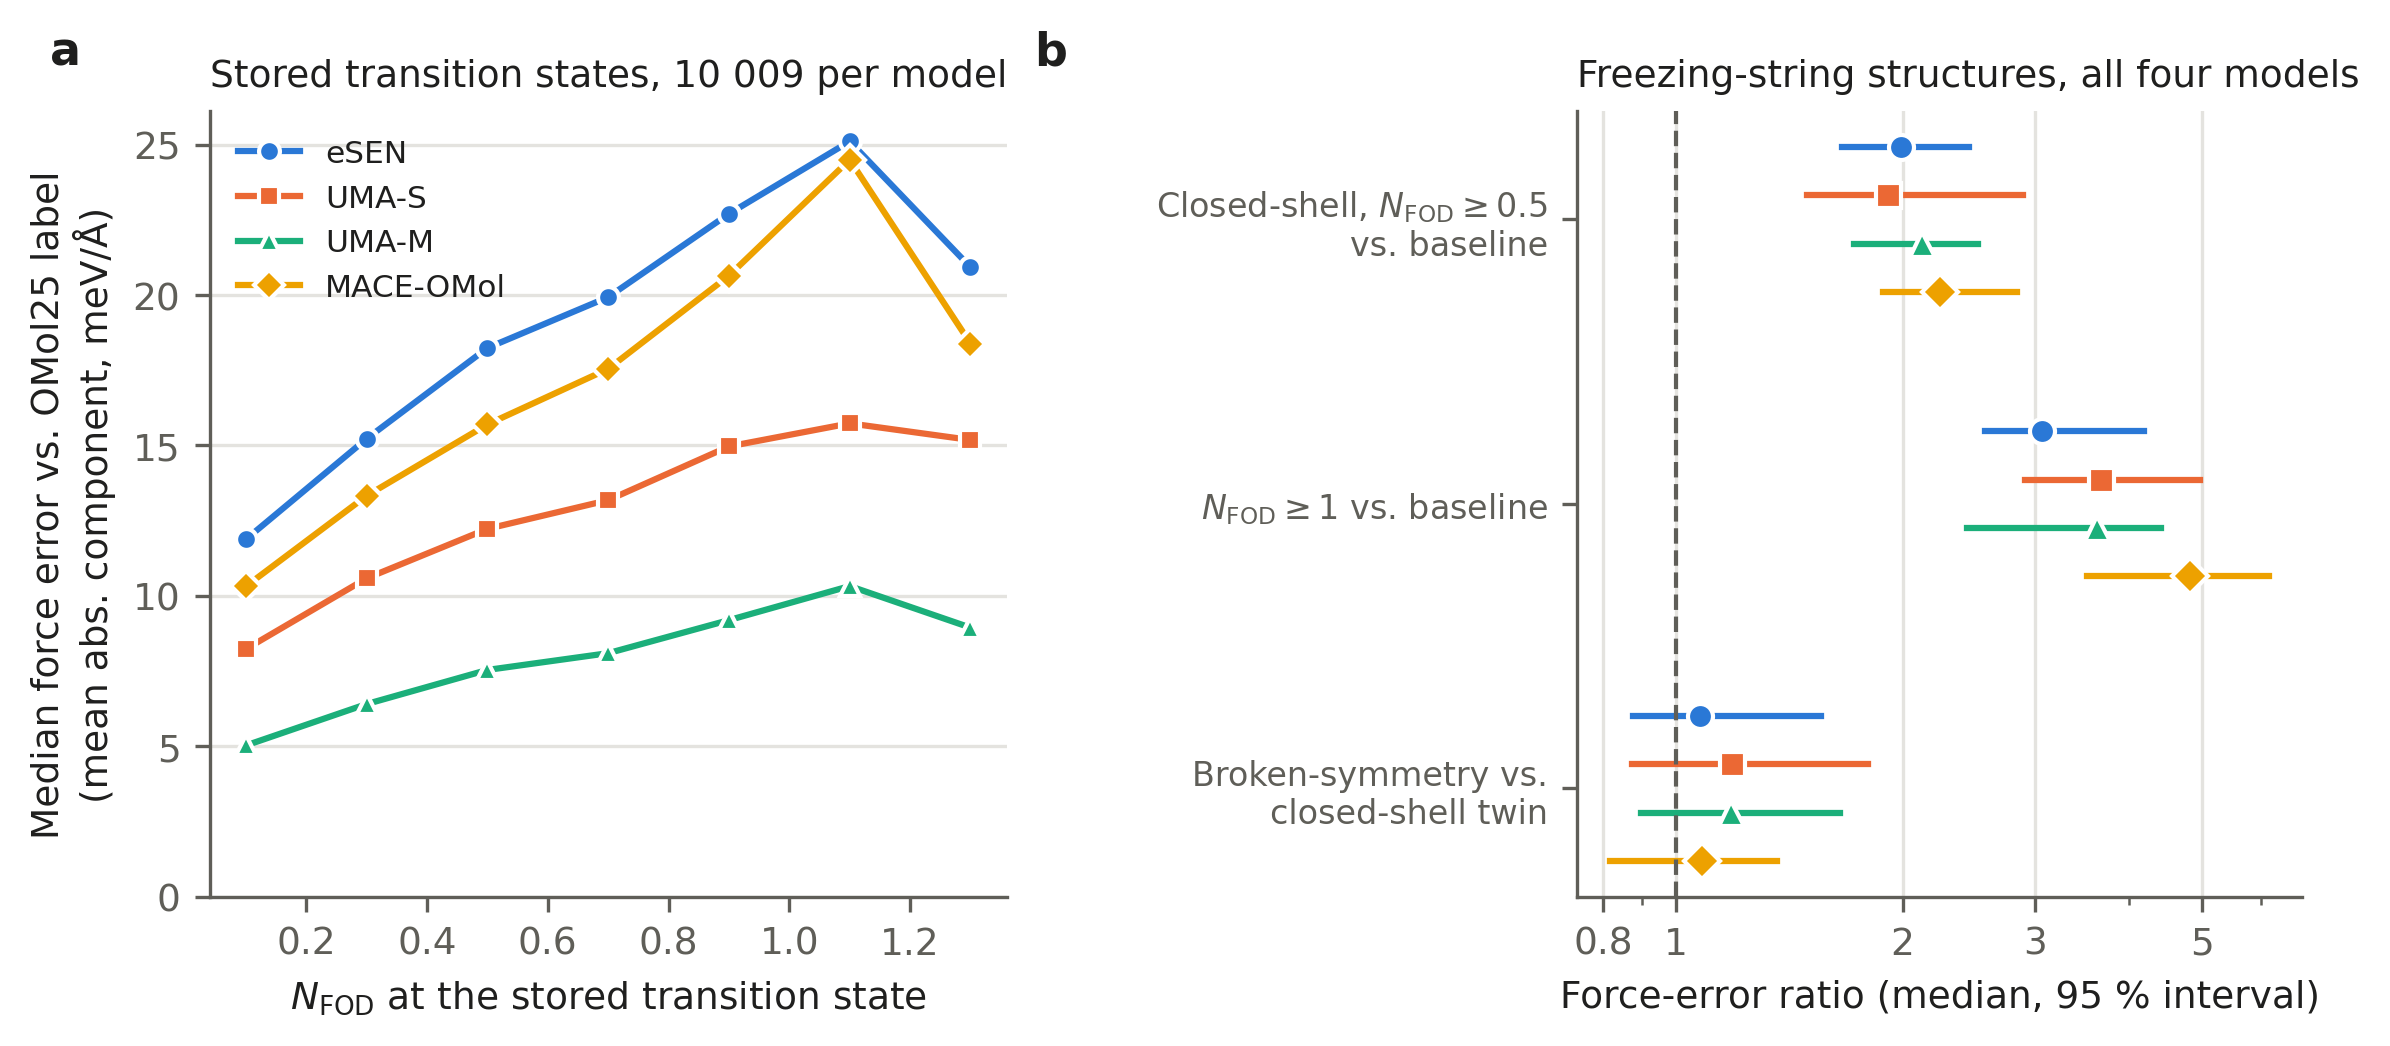
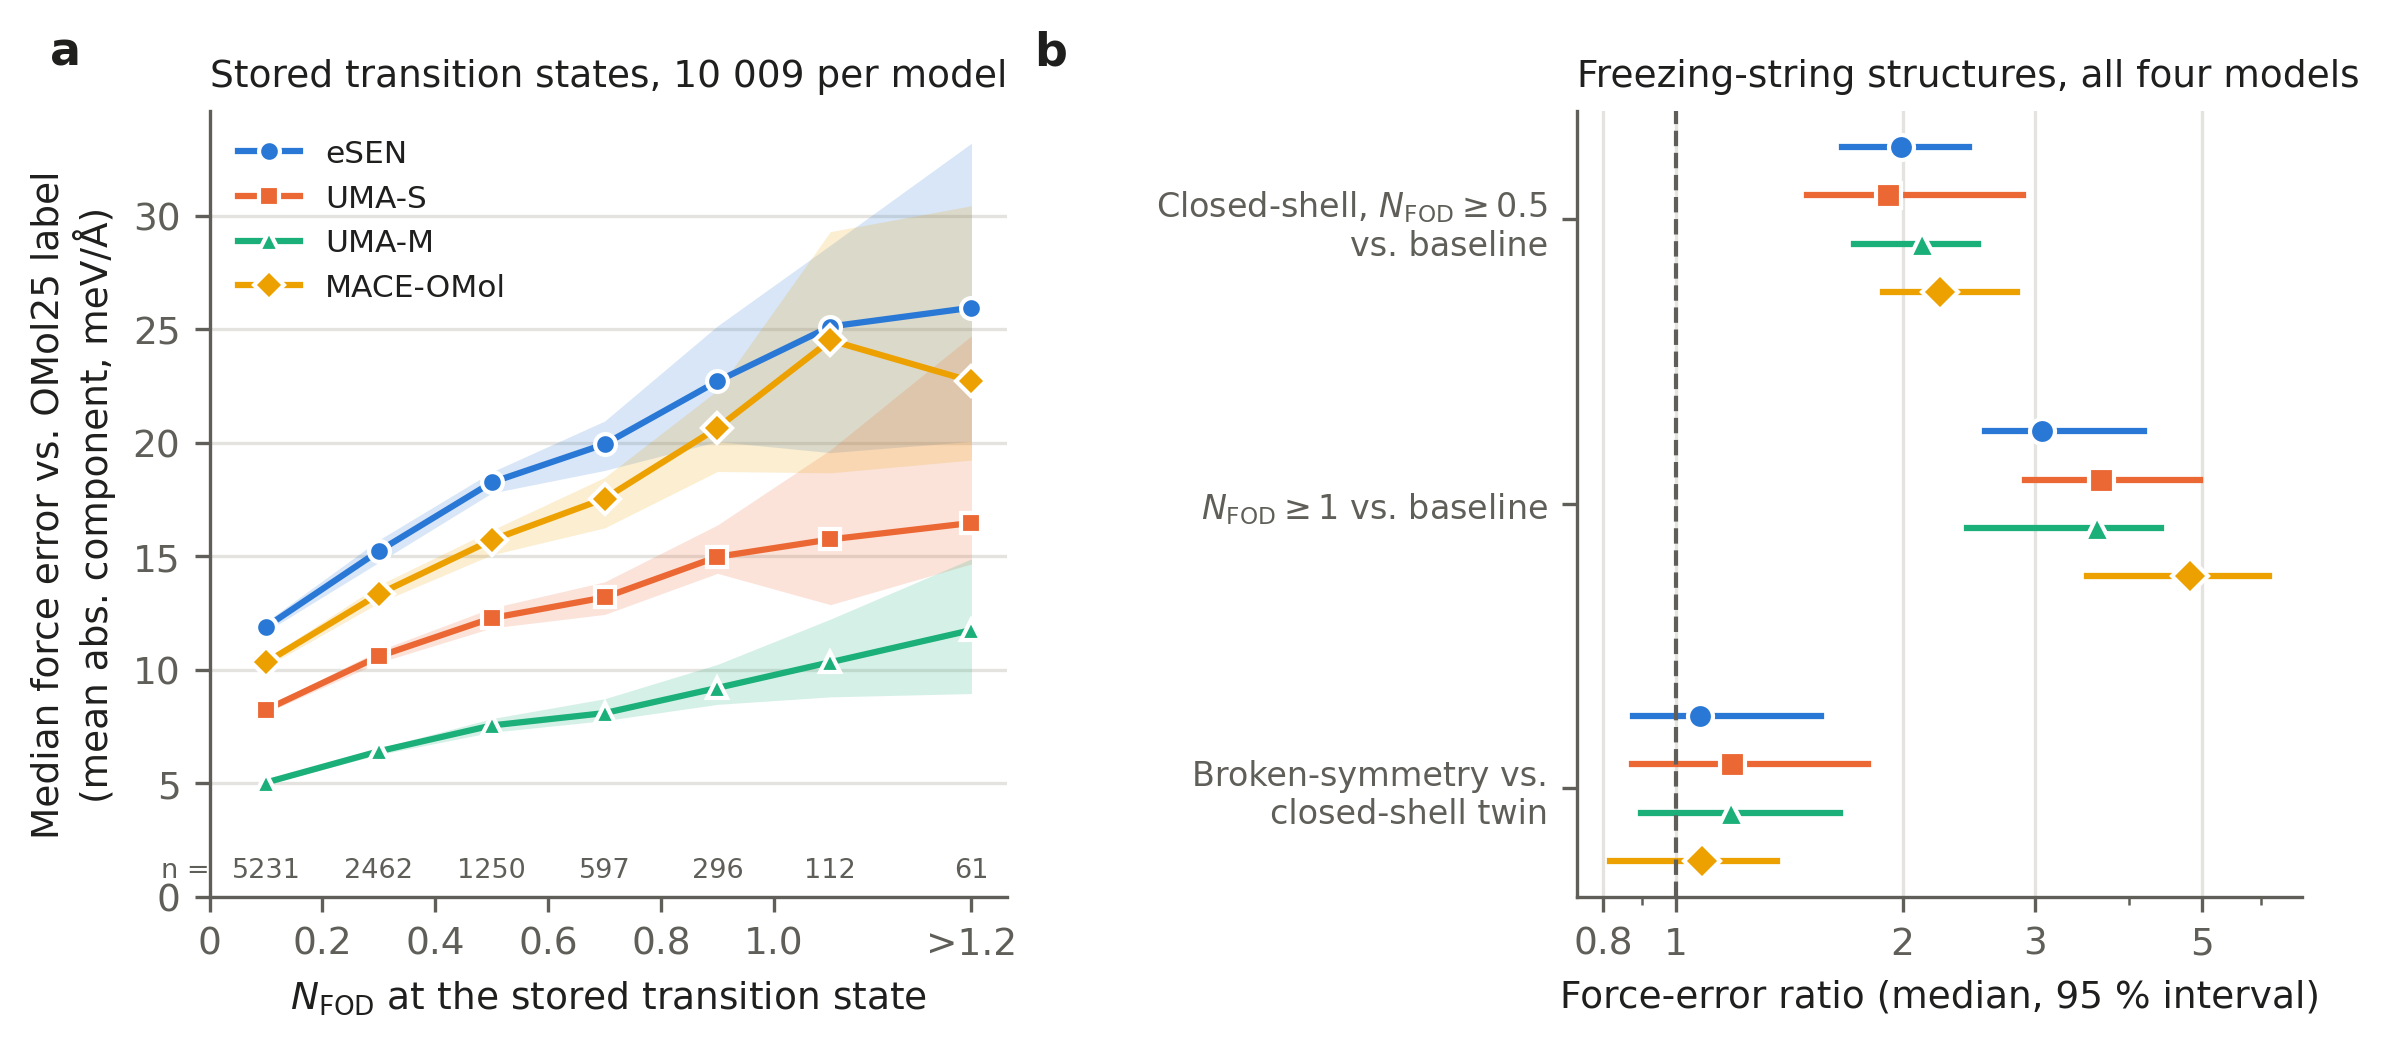
Figure 3a: top N_FOD bins merged above 1.2, 95 % bootstrap bands and counts per bin

diff --git a/pipeline/plot_paper_figs.py b/pipeline/plot_paper_figs.py
@@ -105,14 +105,28 @@ plt.close(fig)
 sp = list(csv.DictReader(open(f'{RES}/model_sp_ts_all.csv')))
 fig, (a1, a2) = plt.subplots(1, 2, figsize=(9, 3.4), gridspec_kw=dict(width_ratios=(1.1, 1), wspace=0.75))
 style(a1)
-edges = np.arange(0, 1.61, 0.2)
-mid = 0.5 * (edges[1:] + edges[:-1])
+# bins of 0.2 up to 1.2, everything above merged (the bins above 1.2 hold about 30 reactions each);
+# shaded band: 95 % bootstrap interval of the median, 2000 resamples per bin
+edges = np.array([0, 0.2, 0.4, 0.6, 0.8, 1.0, 1.2, 9])
+mid = np.array([0.1, 0.3, 0.5, 0.7, 0.9, 1.1, 1.35])
+rng = np.random.default_rng(0)
 for m in MODELS:
     R = [(float(r['nfod']), float(r['f_mae'])) for r in sp if r['model'] == m and r['f_mae']]
     n, e = np.array(R).T
-    med = [np.median(e[(n >= lo) & (n < hi)]) if ((n >= lo) & (n < hi)).sum() >= 20 else np.nan
-           for lo, hi in zip(edges[:-1], edges[1:])]
-    a1.plot(mid, np.array(med) * 1e3, color=COLOR[m], lw=1.5, marker=MARK[m], ms=5, mec='white', mew=1, label=LABEL[m])
+    med, lo95, hi95, cnt = [], [], [], []
+    for lo, hi in zip(edges[:-1], edges[1:]):
+        v = e[(n >= lo) & (n < hi)] * 1e3
+        b = np.median(rng.choice(v, (2000, len(v))), axis=1)
+        med.append(np.median(v))
+        lo95.append(np.percentile(b, 2.5))
+        hi95.append(np.percentile(b, 97.5))
+        cnt.append(len(v))
+    a1.fill_between(mid, lo95, hi95, color=COLOR[m], alpha=0.18, lw=0)
+    a1.plot(mid, med, color=COLOR[m], lw=1.5, marker=MARK[m], ms=5, mec='white', mew=1, label=LABEL[m])
+for x0, c in zip(mid, cnt):
+    a1.text(x0, 0.6, f'{c}', ha='center', va='bottom', fontsize=6.5, color=INK2)
+a1.text(0.0, 0.6, 'n =', ha='right', va='bottom', fontsize=6.5, color=INK2)
+a1.set_xticks([0, 0.2, 0.4, 0.6, 0.8, 1.0, 1.35], ['0', '0.2', '0.4', '0.6', '0.8', '1.0', '>1.2'])
 a1.set_xlabel(r'$N_\mathrm{FOD}$ at the stored transition state')
 a1.set_ylabel('Median force error vs. OMol25 label\n(mean abs. component, meV/Å)')
 a1.set_ylim(bottom=0)
